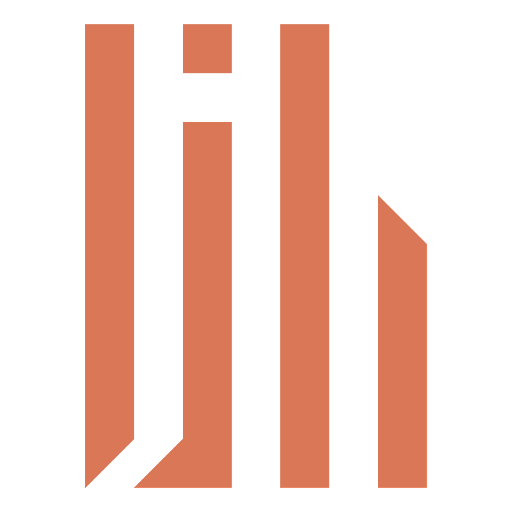
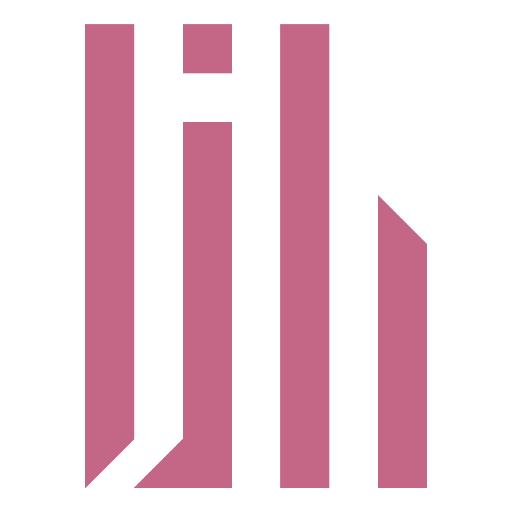
style: update theme color to #c46686 for visual consistency across components

diff --git a/.vitepress/theme/custom.css b/.vitepress/theme/custom.css
@@ -113,10 +113,10 @@
 }
 
 :root {
-  --vp-c-brand-1: var(--color-clay);
-  --vp-c-brand-2: color-mix(in hsl, var(--color-clay), black 10%);
-  --vp-c-brand-3: color-mix(in hsl, var(--color-clay), black 20%);
-  --vp-c-brand-soft: rgb(from var(--color-clay) r g b / 16%);
+  --vp-c-brand-1: var(--color-fig);
+  --vp-c-brand-2: color-mix(in hsl, var(--color-fig), black 10%);
+  --vp-c-brand-3: color-mix(in hsl, var(--color-fig), black 20%);
+  --vp-c-brand-soft: rgb(from var(--color-fig) r g b / 16%);
 
   --vp-home-hero-name-color: var(--vp-c-text-1);
 }
@@ -141,7 +141,7 @@
   justify-content: center;
   width: 0.5em;
   animation: flower 1.44s steps(1) infinite;
-  -webkit-text-fill-color: var(--color-clay);
+  -webkit-text-fill-color: var(--vp-c-brand-1);
 }
 
 @keyframes flower {

diff --git a/.vitepress/config.ts b/.vitepress/config.ts
@@ -37,7 +37,7 @@ export default defineConfig({
     ['link', { rel: 'icon', type: 'image/png', href: '/android-chrome-192x192.png', sizes: '192x192' }],
     ['link', { rel: 'icon', type: 'image/png', href: '/android-chrome-512x512.png', sizes: '512x512' }],
     ['link', { rel: 'manifest', href: '/site.webmanifest' }],
-    ['meta', { name: 'theme-color', content: '#d97757' }],
+    ['meta', { name: 'theme-color', content: '#c46686' }],
     ['meta', { name: 'description', content: 'Hello, World!' }],
     ['meta', { property: 'og:type', content: 'website' }],
     ['meta', { property: 'og:locale', content: 'en' }],

diff --git a/components/Terminal.vue b/components/Terminal.vue
@@ -258,7 +258,7 @@ onMounted(() => {
   flex-direction: column;
   align-items: flex-start;
   gap: 4px;
-  padding: 16px 16px;
+  padding: 16px 24px;
   font-size: 16px;
   line-height: 1.5;
   background-color: var(--vp-code-block-bg);
